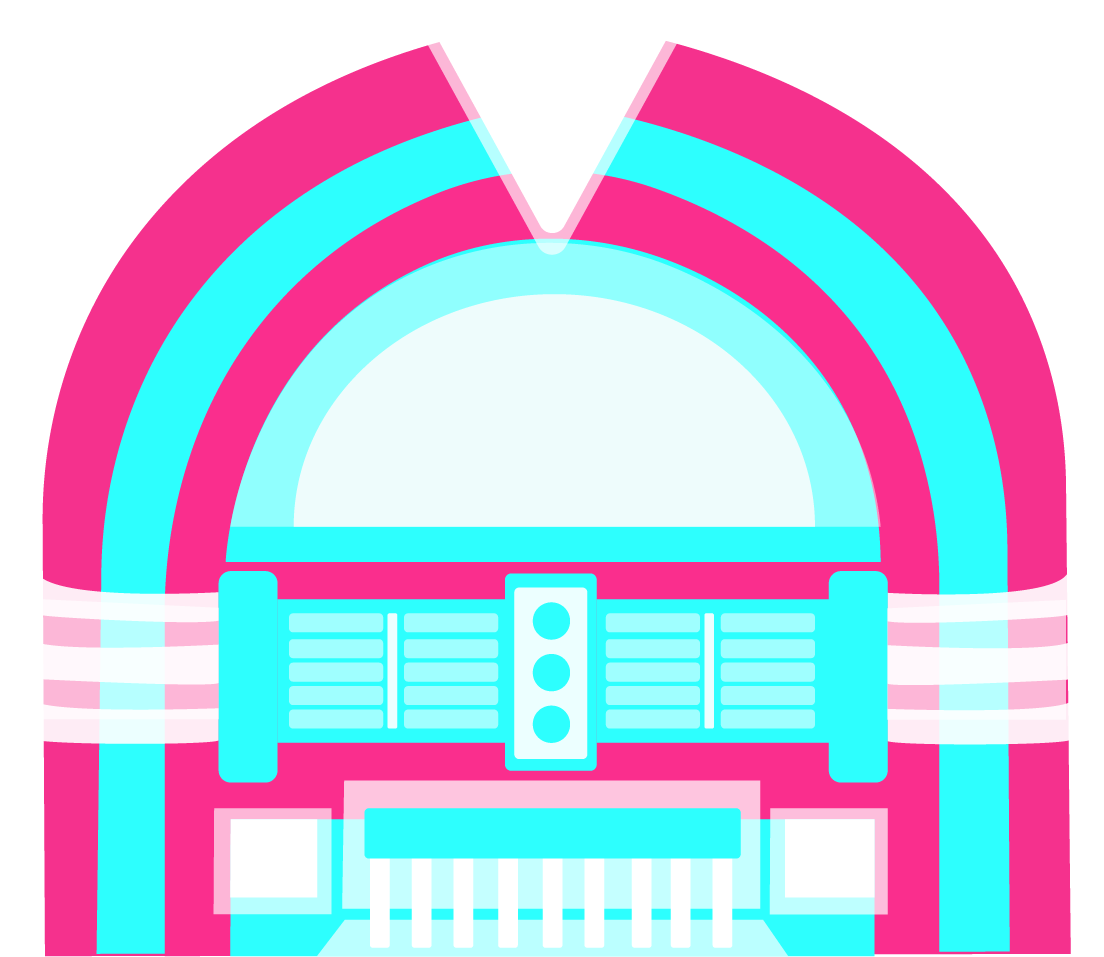
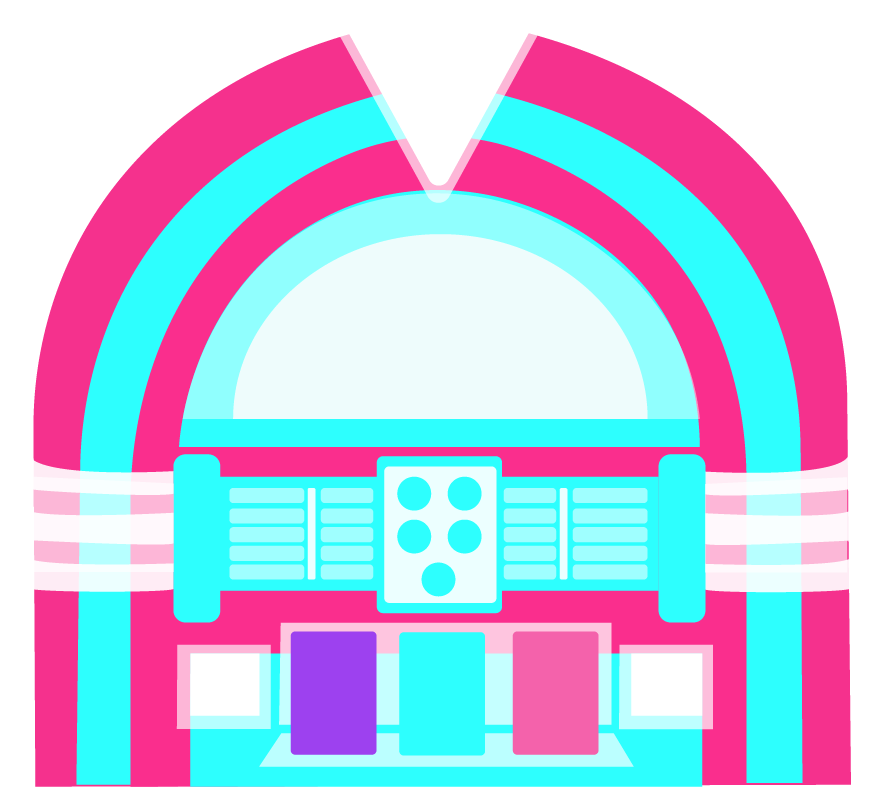
music

diff --git a/index.html b/index.html
@@ -13,35 +13,78 @@
 		<div class="jukebox">
 			<img src="images/jukeboxV3.png" alt="jukebox">
 		</div>
+		<!--drop slots-->
+
+		<div class="slot" id="slotOne"></div>
+		<div class="slot" id="slotTwo"></div>
+		<div class="slot" id="slotThree"></div>
+		<div class="slot" id="slotFour"></div>
+		<div class="slot" id="slotFive"></div>
 		<!--buttons-->
 		<div class="button">
-			<div draggable="true" class="drums">
-				<img draggable="true" src="images/drums.svg" alt="drums">
+			<!--purple group-->
+			<div class="purple">
+					<div class="pDrums"  data-trackref="jailhouse">
+						<img draggable="true" src="images/p_drum.svg" alt="p_drums">
+					</div>
+					<div class="sax" data-trackref="clock">
+						<img draggable="true" src="images/sax.svg" alt="sax">
+					</div>
+					<div class="keys" data-trackref="jailhouse">
+						<img draggable="true" src="images/keys.svg" alt="keys">
+					</div>
+					<div class="trump" data-trackref="jailhouse">
+						<img draggable="true" src="images/trump.svg" alt="trump">
+					</div>
+					<div class="guitar" data-trackref="clock">
+						<img draggable="true" src="images/guitar.svg" alt="guitar">
+					</div>
 			</div>
-			<div class="sax">
-				<img draggable="true" src="images/sax.svg" alt="sax">
+			<!--blue group-->
+			<div class="blue">
+					<div class="pDrums"  data-trackref="jailhouse">
+						<img draggable="true" src="images/b_drum.svg" alt="p_drums">
+					</div>
+					<div class="sax" data-trackref="clock">
+						<img draggable="true" src="images/sax.svg" alt="sax">
+					</div>
+					<div class="keys" data-trackref="jailhouse">
+						<img draggable="true" src="images/keys.svg" alt="keys">
+					</div>
+					<div class="trump" data-trackref="jailhouse">
+						<img draggable="true" src="images/trump.svg" alt="trump">
+					</div>
+					<div class="guitar" data-trackref="clock">
+						<img draggable="true" src="images/guitar.svg" alt="guitar">
+					</div>
 			</div>
-			<div class="keys">
-				<img draggable="true" src="images/keys.svg" alt="keys">
-			</div>
-			<div class="trump">
-				<img draggable="true" src="images/trump.svg" alt="trump">
-			</div>
-			<div class="guitar">
-				<img draggable="true" src="images/guitar.svg" alt="guitar">
+			<!--pink group-->
+			<div class="pink">
+					<div class="pDrums"  data-trackref="jailhouse">
+						<img draggable="true" src="images/pk_drum.svg" alt="p_drums">
+					</div>
+					<div class="sax" data-trackref="clock">
+						<img draggable="true" src="images/sax.svg" alt="sax">
+					</div>
+					<div class="keys" data-trackref="jailhouse">
+						<img draggable="true" src="images/keys.svg" alt="keys">
+					</div>
+					<div class="trump" data-trackref="jailhouse">
+						<img draggable="true" src="images/trump.svg" alt="trump">
+					</div>
+					<div class="guitar" data-trackref="clock">
+						<img draggable="true" src="images/guitar.svg" alt="guitar">
+					</div>
 			</div>
 		</div>
-		<!--drop slots-->
-		<div class="slot"></div>
-		<div class="slot"></div>
-		<div class="slot"></div>
 		<!--Music-->
 		<div class="audio">
-			<audio src="audio/jailhouse.mp3" controls>jailhouse rock</audio>
+  		<audio src=""></audio>
+			<!--<audio src="audio/jailhouse.mp3" controls>jailhouse rock</audio>
 			<audio src="audio/clock.mp3" controls>rock around the clock</audio>
 			<audio src="audio/fly.mp3"controls> come fly with me</audio>
 			<audio src="audio/mambo.mp3"controls>mambo #5</audio>
-			<audio src="audio/mona.mp3"controls>mona lisa</audio>
+			<audio src="audio/mona.mp3"controls>mona lisa</audio>-->
 		</div>
 		<!--reset-->
 		<button onClick="window.location.reload();">Reset</button>

diff --git a/js/main.js b/js/main.js
@@ -1,6 +1,6 @@
 (() => {
 
-const drumsButton = document.querySelector('.drums'),
+const pDrums = document.querySelector('.pDrums'),
 saxButton = document.querySelector('.sax'),
 keysButton = document.querySelector('.keys'),
 trumpButton = document.querySelector('.trump'),
@@ -8,21 +8,28 @@ guitarButton = document.querySelector('.guitar'),
 slots = document.querySelectorAll('.slot'),
 button = document.querySelectorAll('.button');
 
-//for(const slot of slots) {
-//  slot.addEventListener('dragover', dragOver);
-//  slot.addEventListener('dragenter', dragEnter);
-//  slot.addEventListener('dragleave', dragLeave);
-//  slot.addEventListener('drop', dragDrop);
-//}
-
 const pieces = ["instrument1", "instrument2", "instrument3", "instrument4", "instrument5"];
+    audioElement = document.querySelector('audio');
 
-//function setInstruments(event) {
-//  pieces.forEach((piece, index) => {
-//    this.id = `${piece}`;
-//  })
-//}
 
+//music
+
+function play() {
+
+
+      // check the current track and incoming trackref; if they match, then unpause. else load the new track
+    //  audioElement.getAttribute('src').includes(this.dataset.trackref);
+
+    let audioSource = this.dataset.trackref;
+
+    // set the audio source
+    audioElement.src = `audio/${audioSource}.mp3`;
+
+    // load and play it
+    audioElement.load();
+    audioElement.play();
+    //playTrack();
+  }
 //slots
 function dragOver(event) {
   event.preventDefault();
@@ -58,14 +65,19 @@ function dragEnd() {
 slots.forEach(slot => slot.addEventListener('dragover', dragOver));
 slots.forEach(slot => slot.addEventListener('drop', dragDrop));
 
-drumsButton.addEventListener('dragstart', dragStart);
-drumsButton.addEventListener('dragend', dragEnd);
+pDrums.addEventListener('dragstart', dragStart);
+pDrums.addEventListener('dragend', play);
+pDrums.addEventListener('dragend', dragEnd);
 saxButton.addEventListener('dragstart', dragStart);
 saxButton.addEventListener('dragend', dragEnd);
+saxButton.addEventListener('dragend', play);
 keysButton.addEventListener('dragstart', dragStart);
 keysButton.addEventListener('dragend', dragEnd);
+keysButton.addEventListener('dragend', play);
 trumpButton.addEventListener('dragstart', dragStart);
 trumpButton.addEventListener('dragend', dragEnd);
+trumpButton.addEventListener('dragend', play);
 guitarButton.addEventListener('dragstart', dragStart);
 guitarButton.addEventListener('dragend', dragEnd);
+guitarButton.addEventListener('dragend', play);
 })();

diff --git a/css/main.css b/css/main.css
@@ -1,17 +1,32 @@
 @charset "UTF-8";
 
+button{
+  position: absolute;
+}
 .container{
   background-color: black;
+  height: 800px;
 }
 .jukebox{
+  display: inline-flex;
+  position: absolute;
+  margin:auto;
+  z-index: 0;
 }
 
 .button{
   width: 40px;
   cursor: pointer;
+  display: inline-block;
+  position: relative;
+  z-index: 1;
+
 }
 
-.drums{
+.purple{
+  
+}
+.pDrums{
 
 }
 
@@ -35,9 +50,26 @@
   display: inline-block;
   height: 60px;
   width: 60px;
-  margin: 10px;
   border: 3px white;
   background-color: grey;
+  position: relative;
+
+}
+
+#slotOne{
+
+}
+#slotTwo{
+
+}
+#slotThree{
+
+}
+#slotFour{
+
+}
+#slotFive{
+
 }
 
 .hold {
